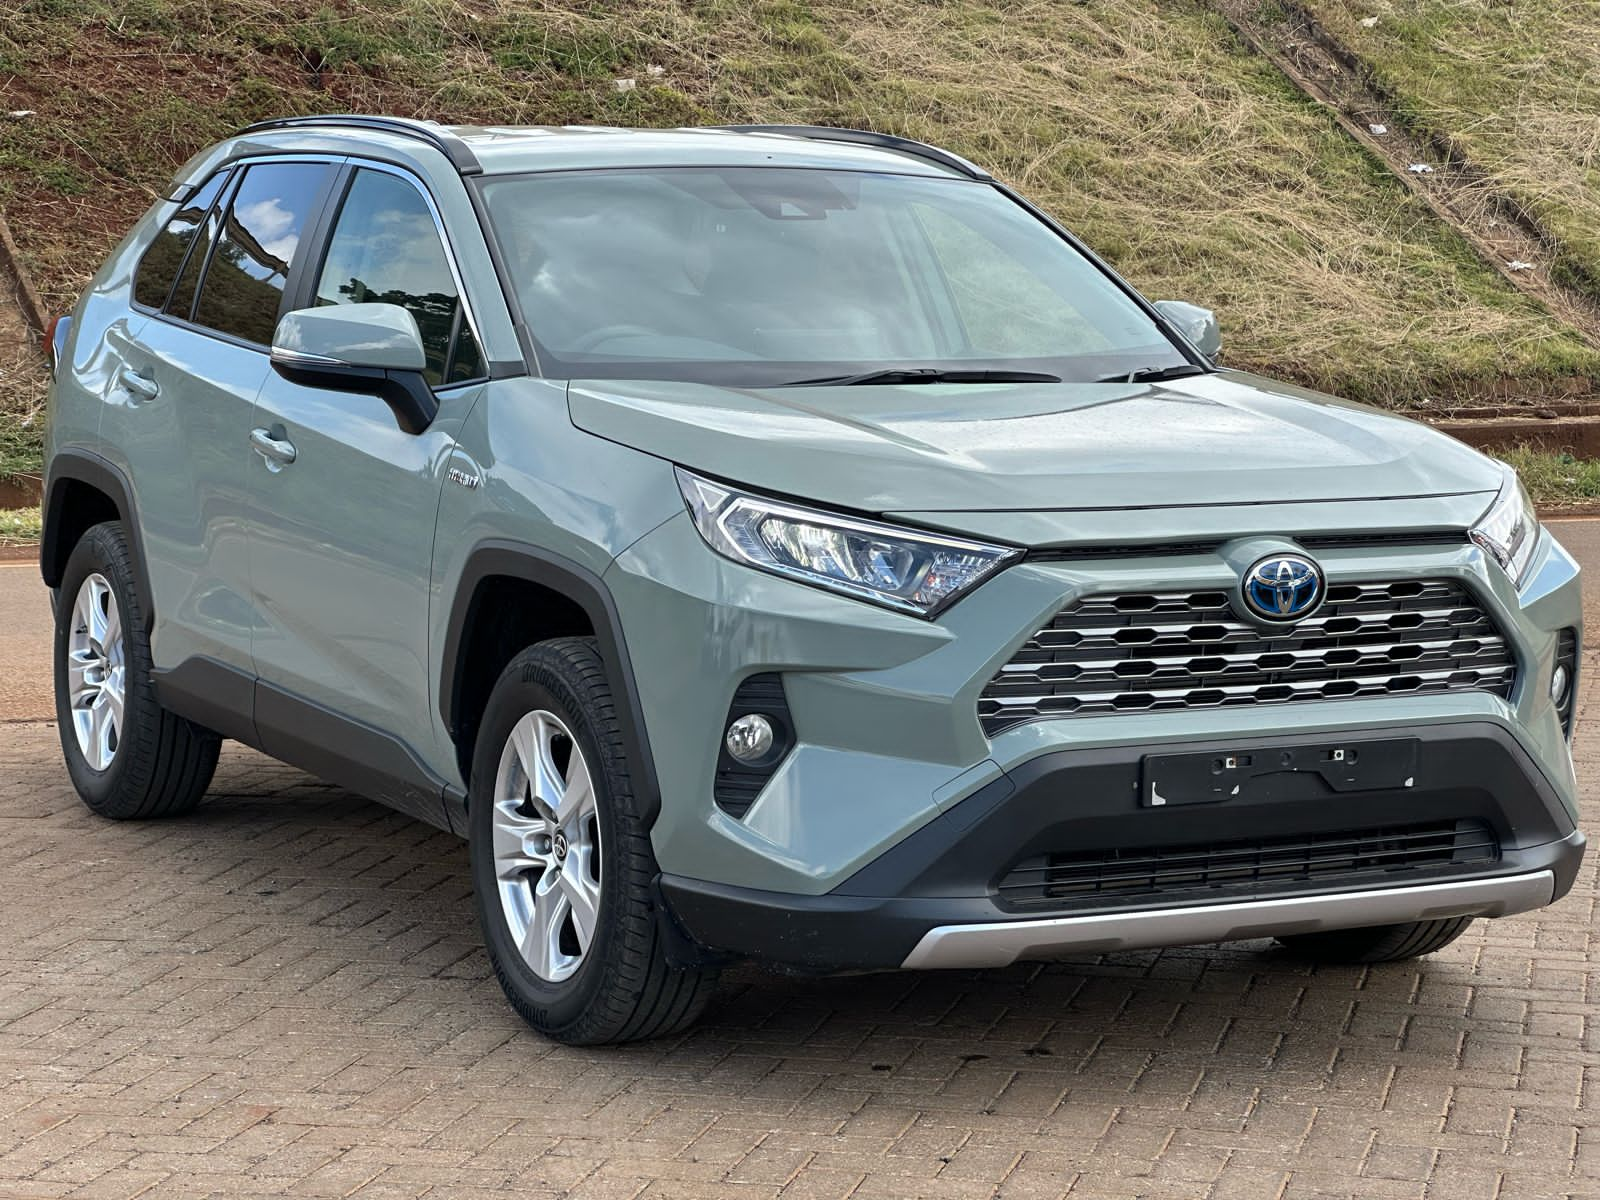
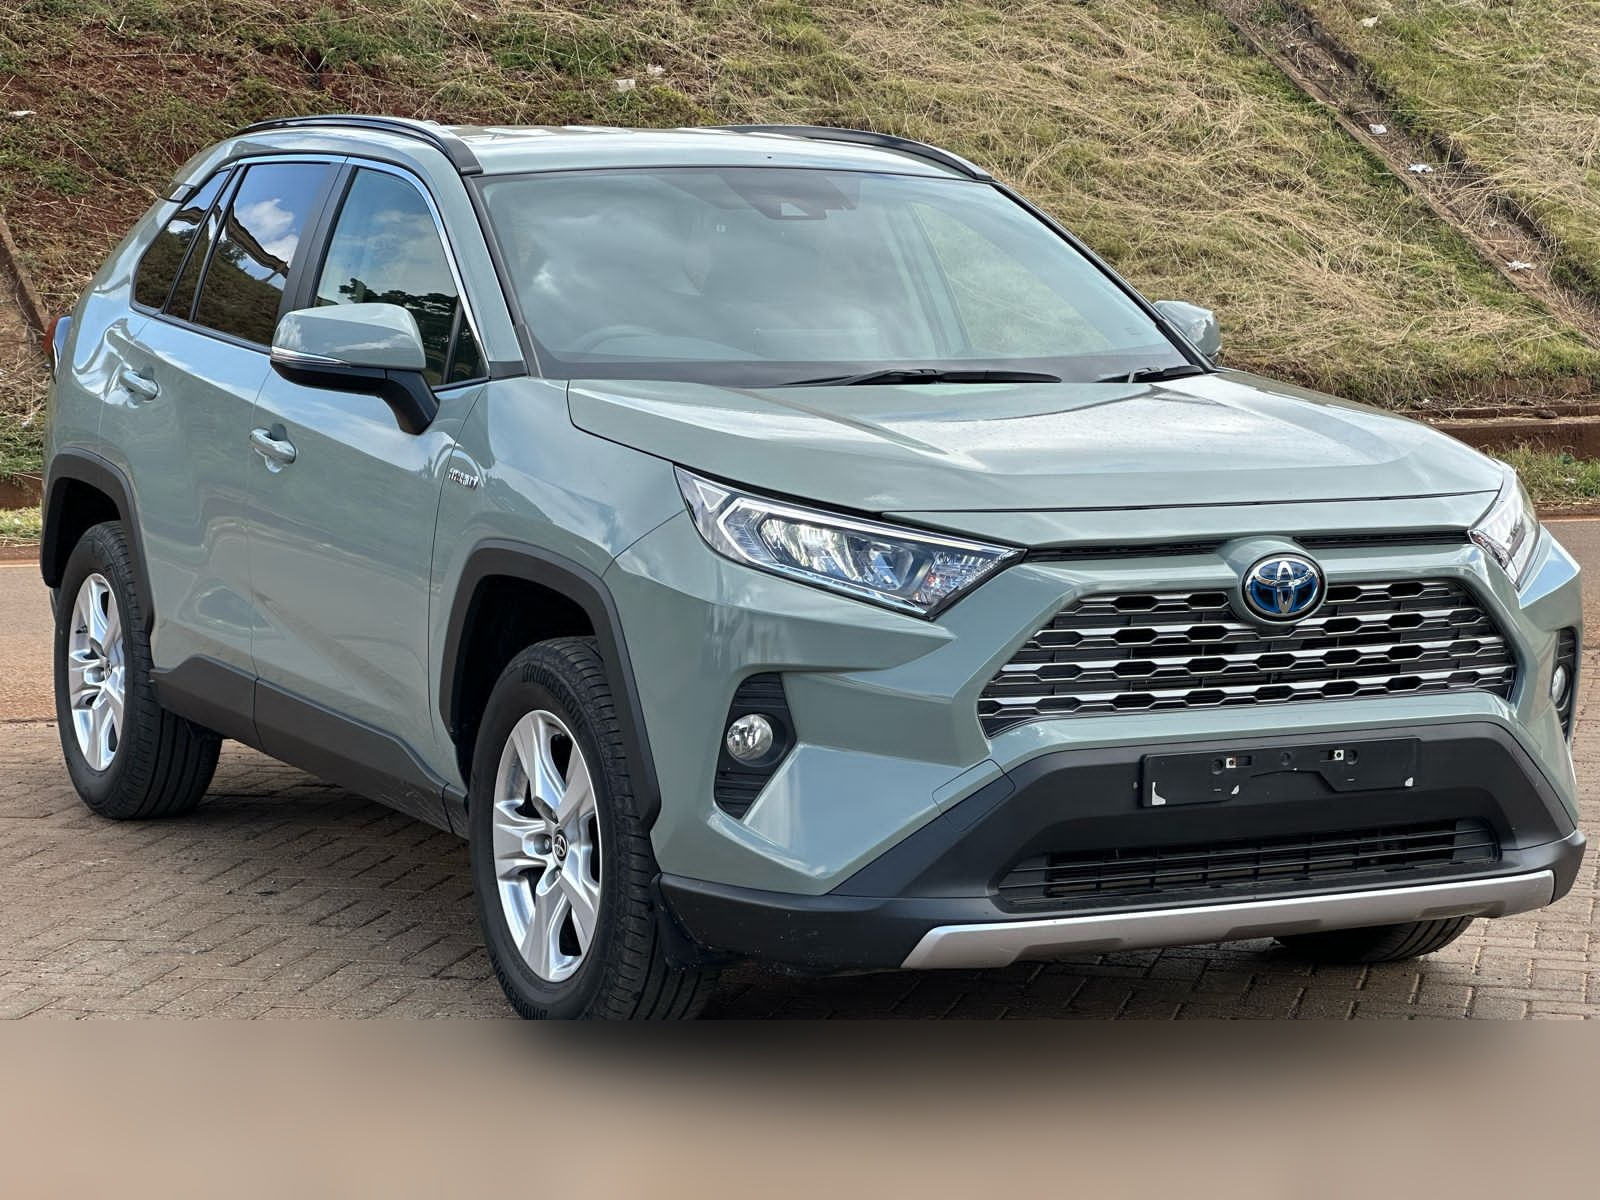
🚗 Update Toyota Land Cruiser to Toyota Vitz and blur license plates
✨ Changes:
- Renamed: Toyota Land Cruiser → Toyota Vitz
- Category: 4WD → Compact
- Price: KES 17,500 → KES 4,500/day
- Updated features: 7 passengers → 5, 6 luggage → 2, Automatic → Manual, Diesel → Petrol
- Added new Compact pricing tier in CarRentalPricing
- Compact category: KES 4,500/day (lowest price tier)
- Vehicles in Compact: Toyota Vitz, Suzuki Alto, Hyundai i10
- Blurred license plates in all 10 car images for privacy
- Applied Gaussian blur (radius 25) to bottom 15% of each image
- Updated pricing structure with 5 categories:
  - Compact: KES 4,500/day
  - Economy: KES 5,000/day
  - Sedan: KES 6,500/day
  - MPV: KES 8,000/day (Most Popular)
  - Tour Van: KES 22,000/day

Changed region(s): [[0.0, 0.8325, 1.0, 1.0]]

diff --git a/src/components/sections/CarFleet.tsx b/src/components/sections/CarFleet.tsx
@@ -38,18 +38,18 @@ const vehicles = [
   },
   {
     id: 3,
-    name: 'Toyota Land Cruiser',
-    category: '4WD',
+    name: 'Toyota Vitz',
+    category: 'Compact',
     image: '/images/WhatsApp Image 2025-10-30 at 20.25.09.jpeg',
-    price: 17500,
+    price: 4500,
     period: 'per day',
     features: {
-      passengers: 7,
-      luggage: 6,
-      transmission: 'Automatic',
-      fuel: 'Diesel'
+      passengers: 5,
+      luggage: 2,
+      transmission: 'Manual',
+      fuel: 'Petrol'
     },
-    description: 'Perfect for safari adventures and rough terrain exploration.'
+    description: 'Compact and agile car perfect for city driving and tight spaces.'
   },
   {
     id: 4,

diff --git a/src/components/sections/CarRentalPricing.tsx b/src/components/sections/CarRentalPricing.tsx
@@ -7,6 +7,22 @@ import Link from 'next/link'
 
 const pricingPlans = [
   {
+    name: 'Compact',
+    description: 'Perfect for city driving and tight spaces',
+    price: 'KES 4,500',
+    period: 'per day',
+    popular: false,
+    vehicles: ['Toyota Vitz', 'Suzuki Alto', 'Hyundai i10'],
+    features: [
+      'Manual transmission',
+      'Air conditioning',
+      'Radio/CD player',
+      'Basic insurance included',
+      'Fuel efficient',
+      '24/7 support'
+    ]
+  },
+  {
     name: 'Economy',
     description: 'Perfect for city driving and short trips',
     price: 'KES 5,000',
